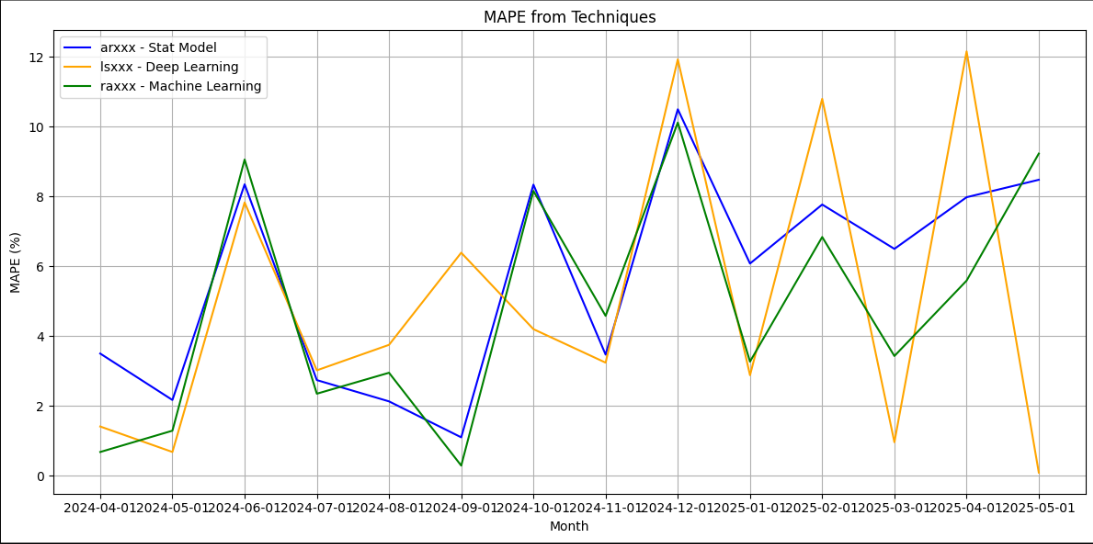
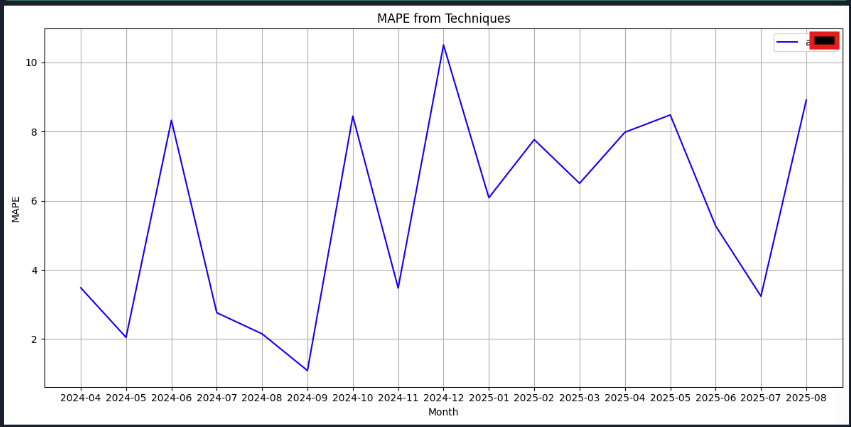
Modify some Lottemart infor.

diff --git a/lotte_mart/readme.md b/lotte_mart/readme.md
@@ -1,5 +1,5 @@
 # Client: Lotte Mart
-## Data Flow
+## Data Flow (Pipelines and Reports Datasources)
 - Data flow in general: 
 https://github.com/ragnaralderson/portfolio_data/blob/main/lotte_mart/Data%20Flow%20(in%20general).drawio
     + Download the file.
@@ -27,8 +27,8 @@ https://github.com/ragnaralderson/portfolio_data/blob/main/lotte_mart/Data%20Flo
     - Output: Excel file with aggregated/pivoted data.
 
 2. lotte_data_cdp
-    - Task: Internal.
-    - CDP Foundation on current data from Lotte Mart/ Lotteria.
+    - Task: client side.
+    - Use AWS Glue (with Pyspark) + AWS Worflow to orchestrate ETL Pipelines for CDP Foundation.
 
 3. mkt_customers_demographic
     - Task: client side.
@@ -70,11 +70,13 @@ https://github.com/ragnaralderson/portfolio_data/blob/main/lotte_mart/Data%20Flo
 7. sales_prediction
     - Task: client side.
     - Based on historical data, since 2017, to predict future orders demand.
-    - Purpose: Resource (Employee: Picker, Packer, Drivers) Allocation.
+    - Purpose: Resources (Employee: Picker, Packer, Drivers) Allocation.
     - Content:
-        + Apply models: stat, Machine Learning, Deep Learning.
-        + Three models would be good-enough (low MAPE for months) to apply to Mart business models.
-        + This is example of MAPE from prediction results from 2024-04 to 2025-05: 
+        + Apply models: Statistics, Machine Learning, Deep Learning.
+        + After using data to train with multiple models.
+        + Based on MAE, RMSE and MAPE, Model {Private} (Stats) is good enough for Mart business models.
+        + MAPE for each month is under 10%. But in the future, models with external additions might get better result.
+        + This is example of MAPE from prediction results from 2024-04 to 2025-08: 
         ![alt text](https://github.com/ragnaralderson/portfolio_data/blob/main/lotte_mart/sales_prediction/mape_from_techniques.png)
 
 8. Basket Analysis.
